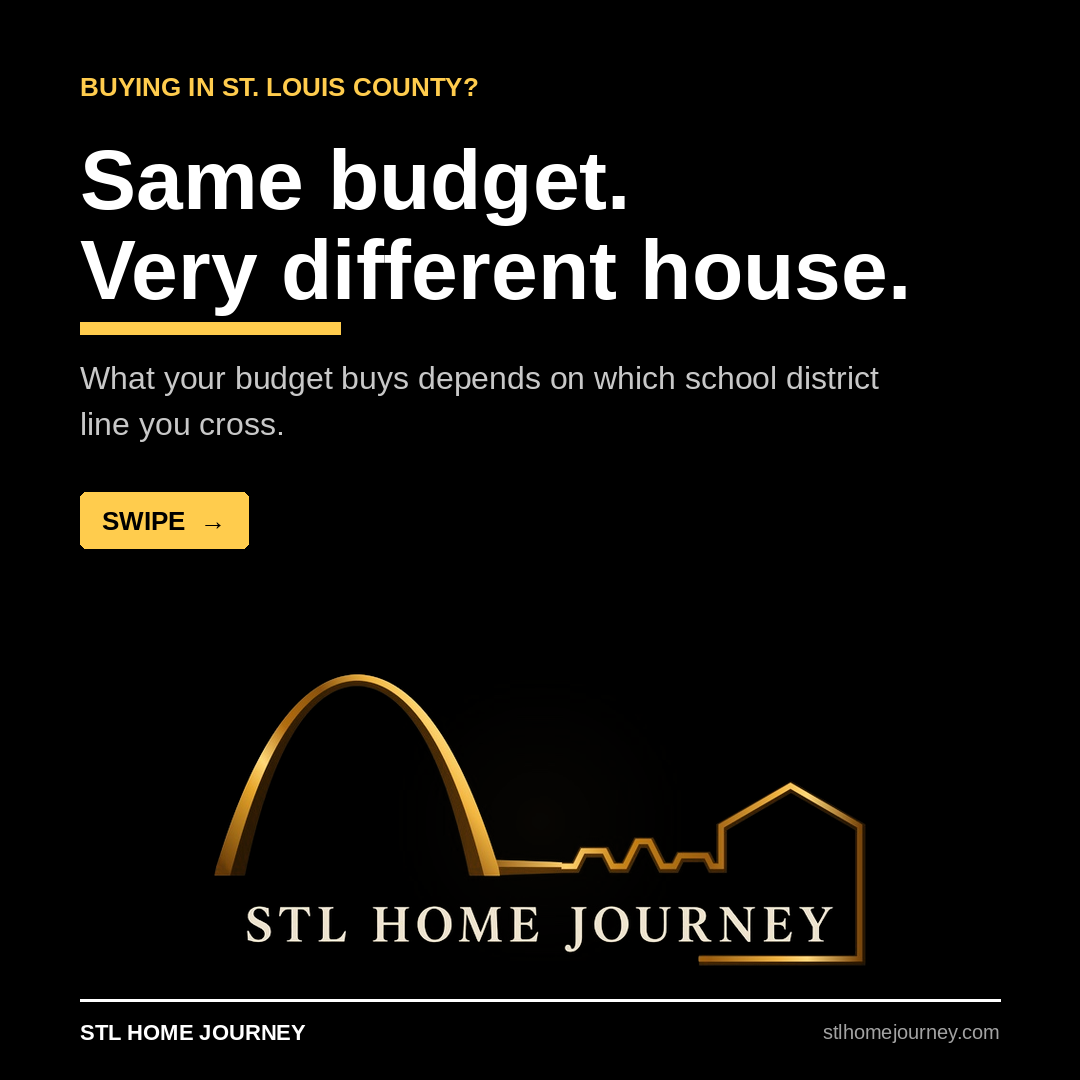
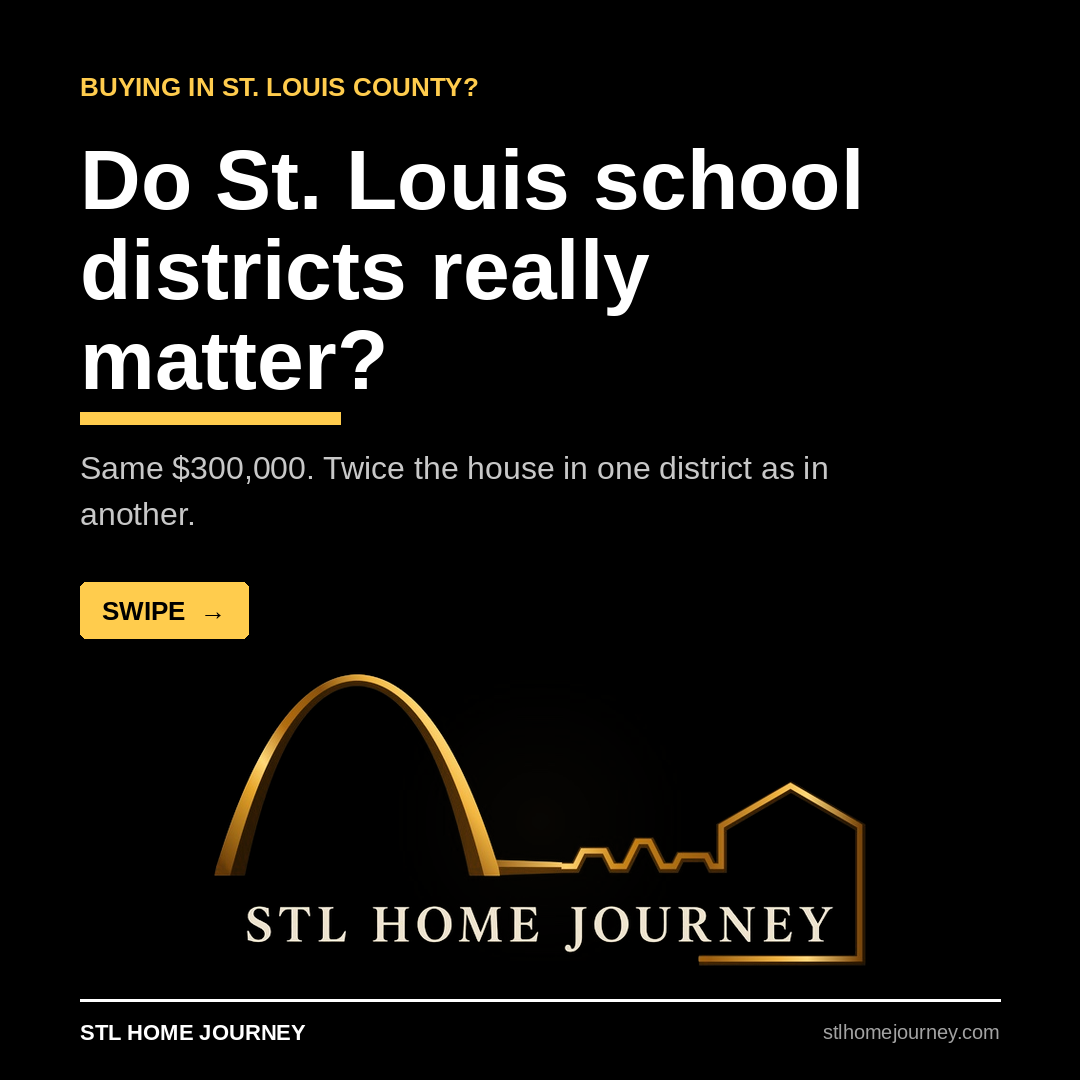
Schools pack v4: new question cover on county hub carousel, /ig card
Claude-Session: https://claude.ai/code/session_01DUfoKiMY8U3dAUB9JT6hLE

Changed region(s): [[0.0611, 0.1222, 0.8556, 0.6111], [0.3056, 0.4278, 0.7639, 0.4583]]

diff --git a/school-districts/st-louis-county.html b/school-districts/st-louis-county.html
@@ -483,7 +483,7 @@
       </div>
       <section class="tc" id="slides" aria-roledescription="carousel" aria-label="The short version: eight slides on what the same budget buys across school districts">
   <ul class="tc-track" tabindex="0">
-    <li class="tc-slide" id="tldr-1" aria-roledescription="slide" aria-label="1 of 8"><img src="/assets/school-districts/county/slides/01-cover.png" alt="Same budget. Very different house. What your budget buys in St. Louis County depends on which school district line you cross. Swipe for the eight-slide summary." width="1080" height="1080" loading="lazy" decoding="async"></li>
+    <li class="tc-slide" id="tldr-1" aria-roledescription="slide" aria-label="1 of 8"><img src="/assets/school-districts/county/slides/01-cover.png" alt="Do St. Louis school districts really matter? Same $300,000, twice the house in one district as in another. Swipe for the eight-slide summary." width="1080" height="1080" loading="lazy" decoding="async"></li>
     <li class="tc-slide" id="tldr-2" aria-roledescription="slide" aria-label="2 of 8"><img src="/assets/school-districts/county/slides/02-gap-300k.png" alt="What $300,000 buys: nearly twice the house, same budget. Among homes that closed for $250,001 to $300,000 in 2026, Ferguson-Florissant had a median of 2,051 square feet at $136 per square foot (16 sales); Maplewood-Richmond Heights had a median of 1,088 square feet at $241 per square foot (7 sales). 2,868 MARIS sales, January 1 to October 5, 2026; districts with at least 5 sales in the band." width="1080" height="1080" loading="lazy" decoding="async"></li>
     <li class="tc-slide" id="tldr-3" aria-roledescription="slide" aria-label="3 of 8"><img src="/assets/school-districts/county/slides/03-ranking-300k.png" alt="What $300,000 buys in all 13 districts, most house to least. Median square feet and price per square foot, homes closed $250,001 to $300,000: Ferguson-Florissant 2,051 at $136; Hazelwood 1,944 at $143; Mehlville R-IX 1,629 at $174; Pattonville 1,533 at $190; Affton 101 1,465 at $185; Rockwood R-VI 1,450 at $199; Parkway 1,438 at $203; Bayless 1,436 at $181; Valley Park 1,355 at $210; Lindbergh 1,327 at $217; Webster Groves 1,280 at $234; Kirkwood R-VII 1,236 at $219; Maplewood-Richmond Heights 1,088 at $241." width="1080" height="1080" loading="lazy" decoding="async"></li>
     <li class="tc-slide" id="tldr-4" aria-roledescription="slide" aria-label="4 of 8"><img src="/assets/school-districts/county/slides/04-price-per-foot.png" alt="Same budget, different price per foot: $136 vs. $241 per square foot at $300,000. Ferguson-Florissant was $136 per square foot and Maplewood-Richmond Heights $241, for the same money." width="1080" height="1080" loading="lazy" decoding="async"></li>

diff --git a/ig/index.html b/ig/index.html
@@ -87,6 +87,10 @@ h1{font-family:"Playfair Display",Georgia,serif;font-weight:700;font-size:30px;l
   </a>
 
   <p class="sec-h">Latest posts</p>
+    <a class="post" href="/school-districts/st-louis-county?utm_source=instagram&amp;utm_medium=social&amp;utm_campaign=schools-pack#slides" data-ig="schools-pack">
+      <img src="/assets/school-districts/county/slides/01-cover.png" alt="" width="1080" height="1080" loading="lazy">
+      <span class="post-txt"><span class="post-date">November 4, 2026</span><span class="post-t">Do St.&nbsp;Louis school districts really matter?</span><span class="post-d">What $300,000 buys across St.&nbsp;Louis County school districts.</span><span class="post-go">See the slides and the data &rarr;</span></span>
+    </a>
     <a class="post" href="/articles/lessons-from-a-sale-cedar-hill-creek-side?utm_source=instagram&amp;utm_medium=social&amp;utm_campaign=buy-sell-pack#slides" data-ig="buy-sell-pack">
       <img src="/assets/buy-sell-pack/01-cover.png" alt="" width="1080" height="1080" loading="lazy">
       <span class="post-txt"><span class="post-date">November 3, 2026</span><span class="post-t">Buy first. Sell 6 days later.</span><span class="post-d">How one household bought first and sold days later, with no bridge loan.</span><span class="post-go">See the slides and the full story &rarr;</span></span>
